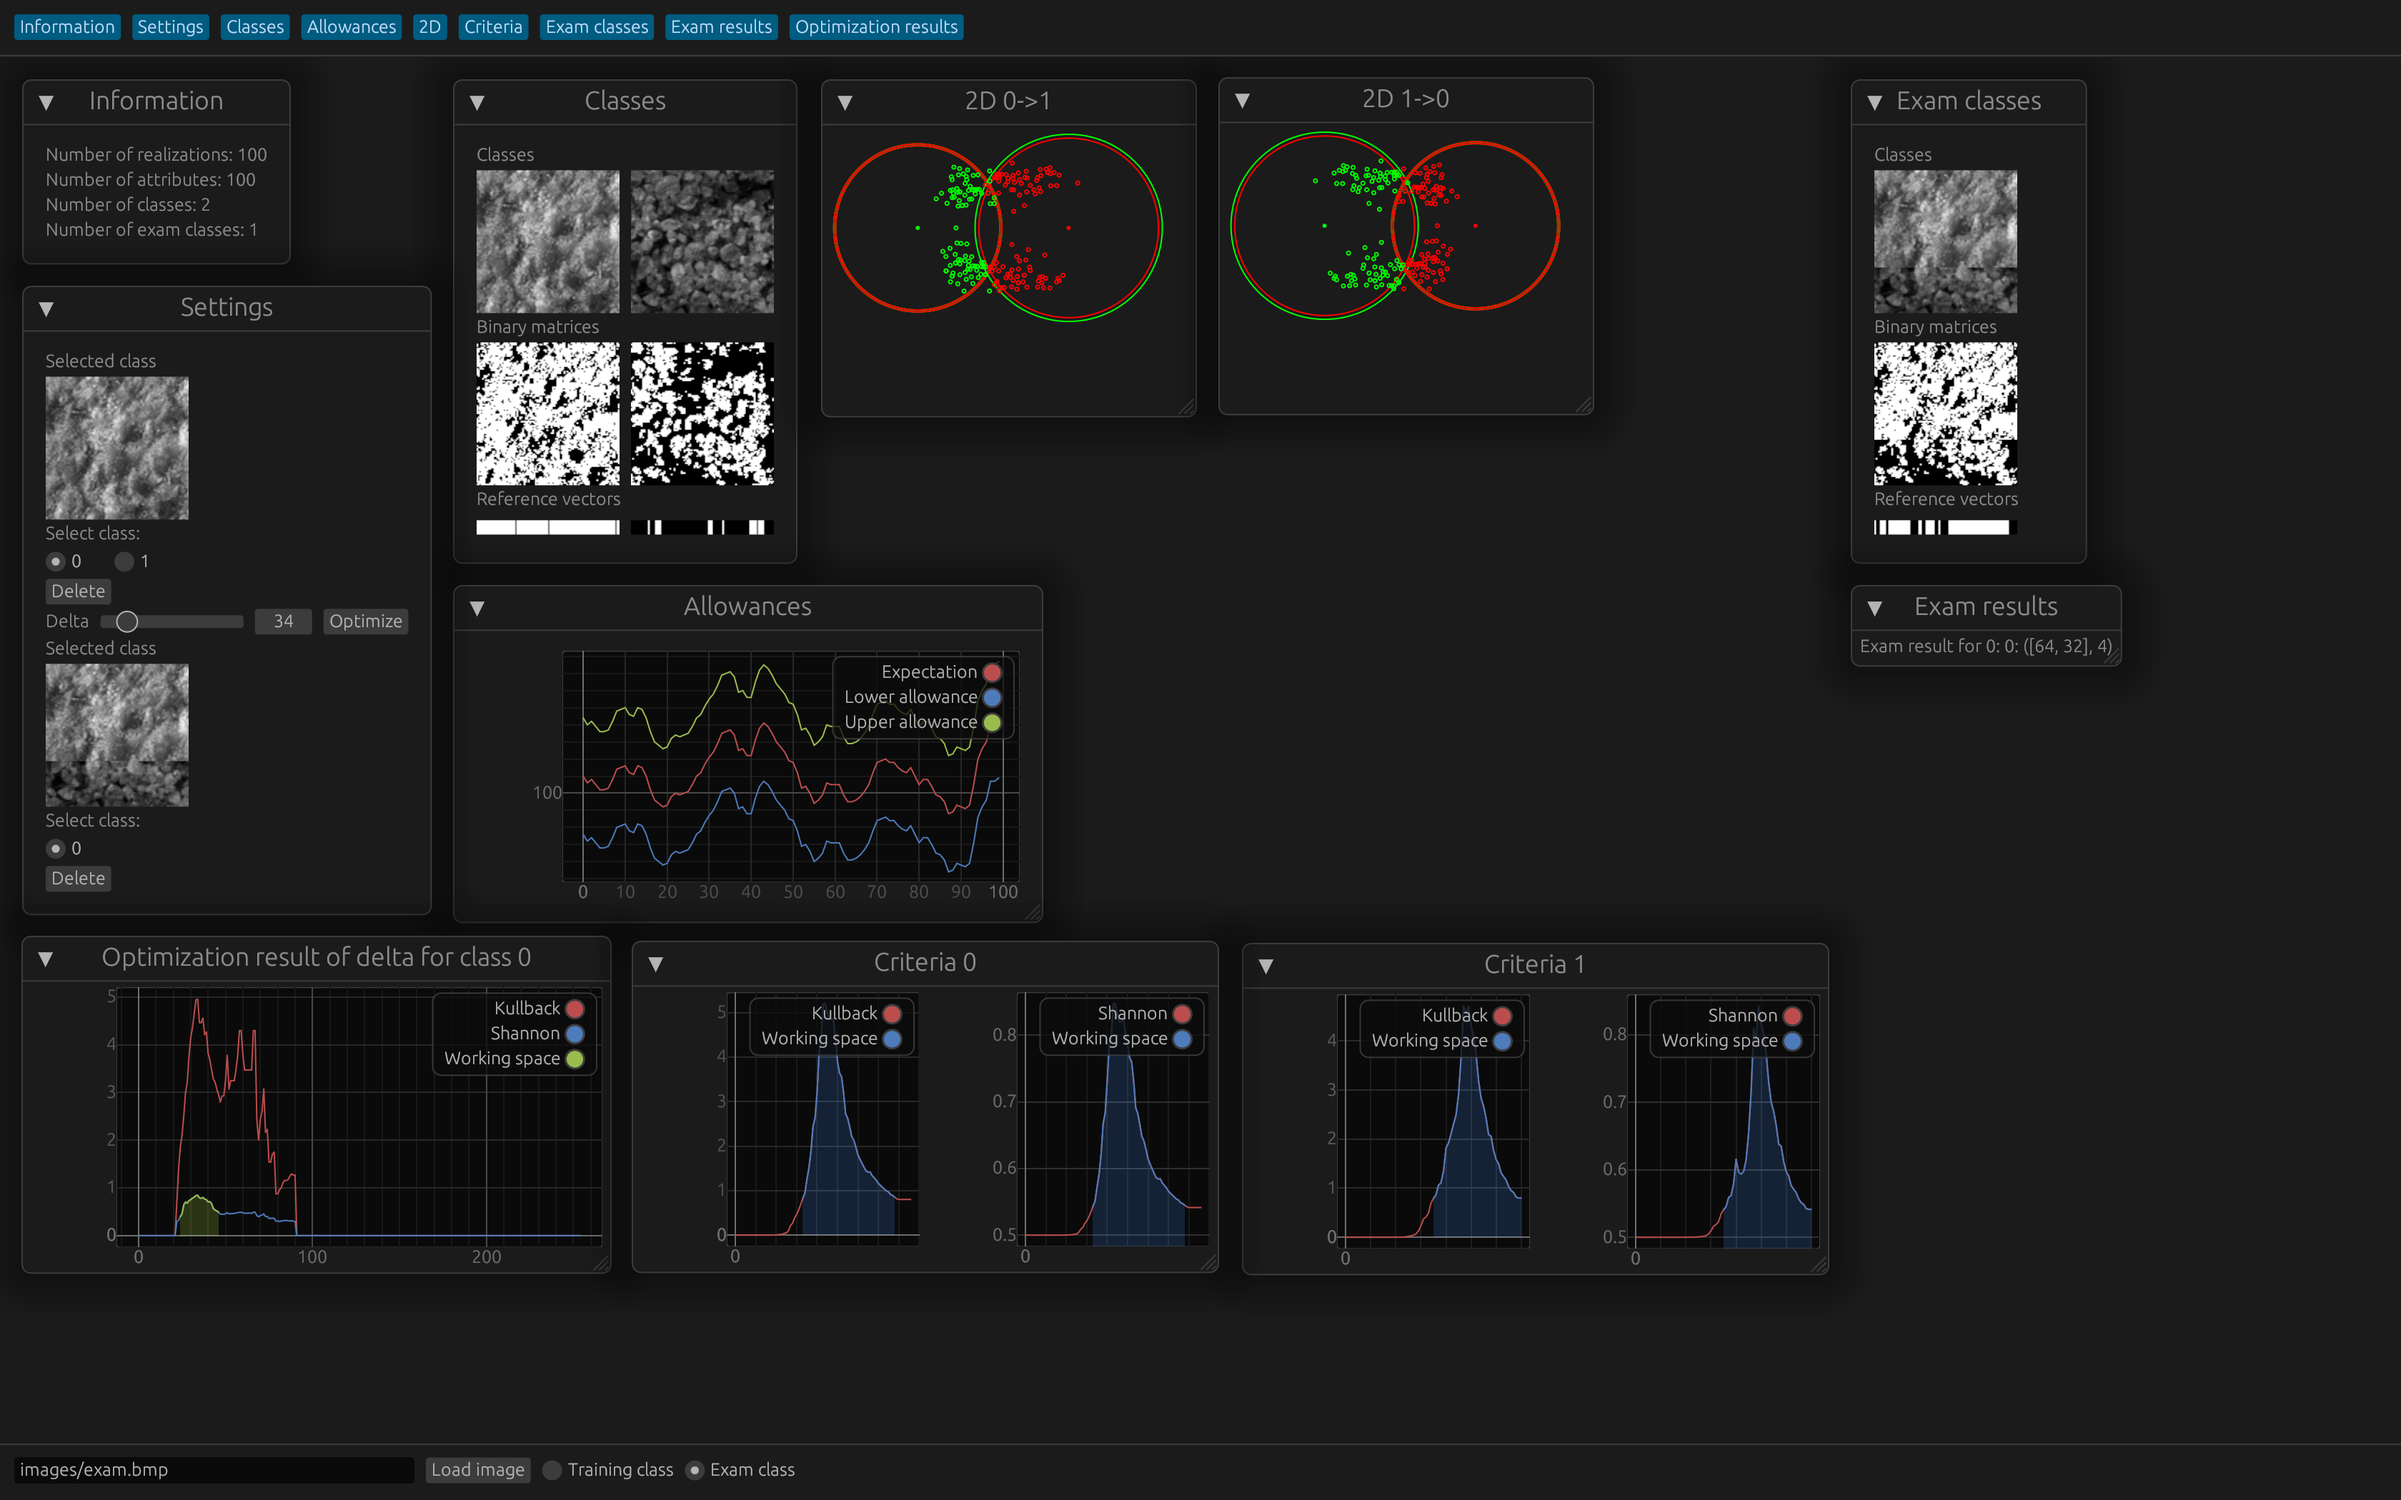
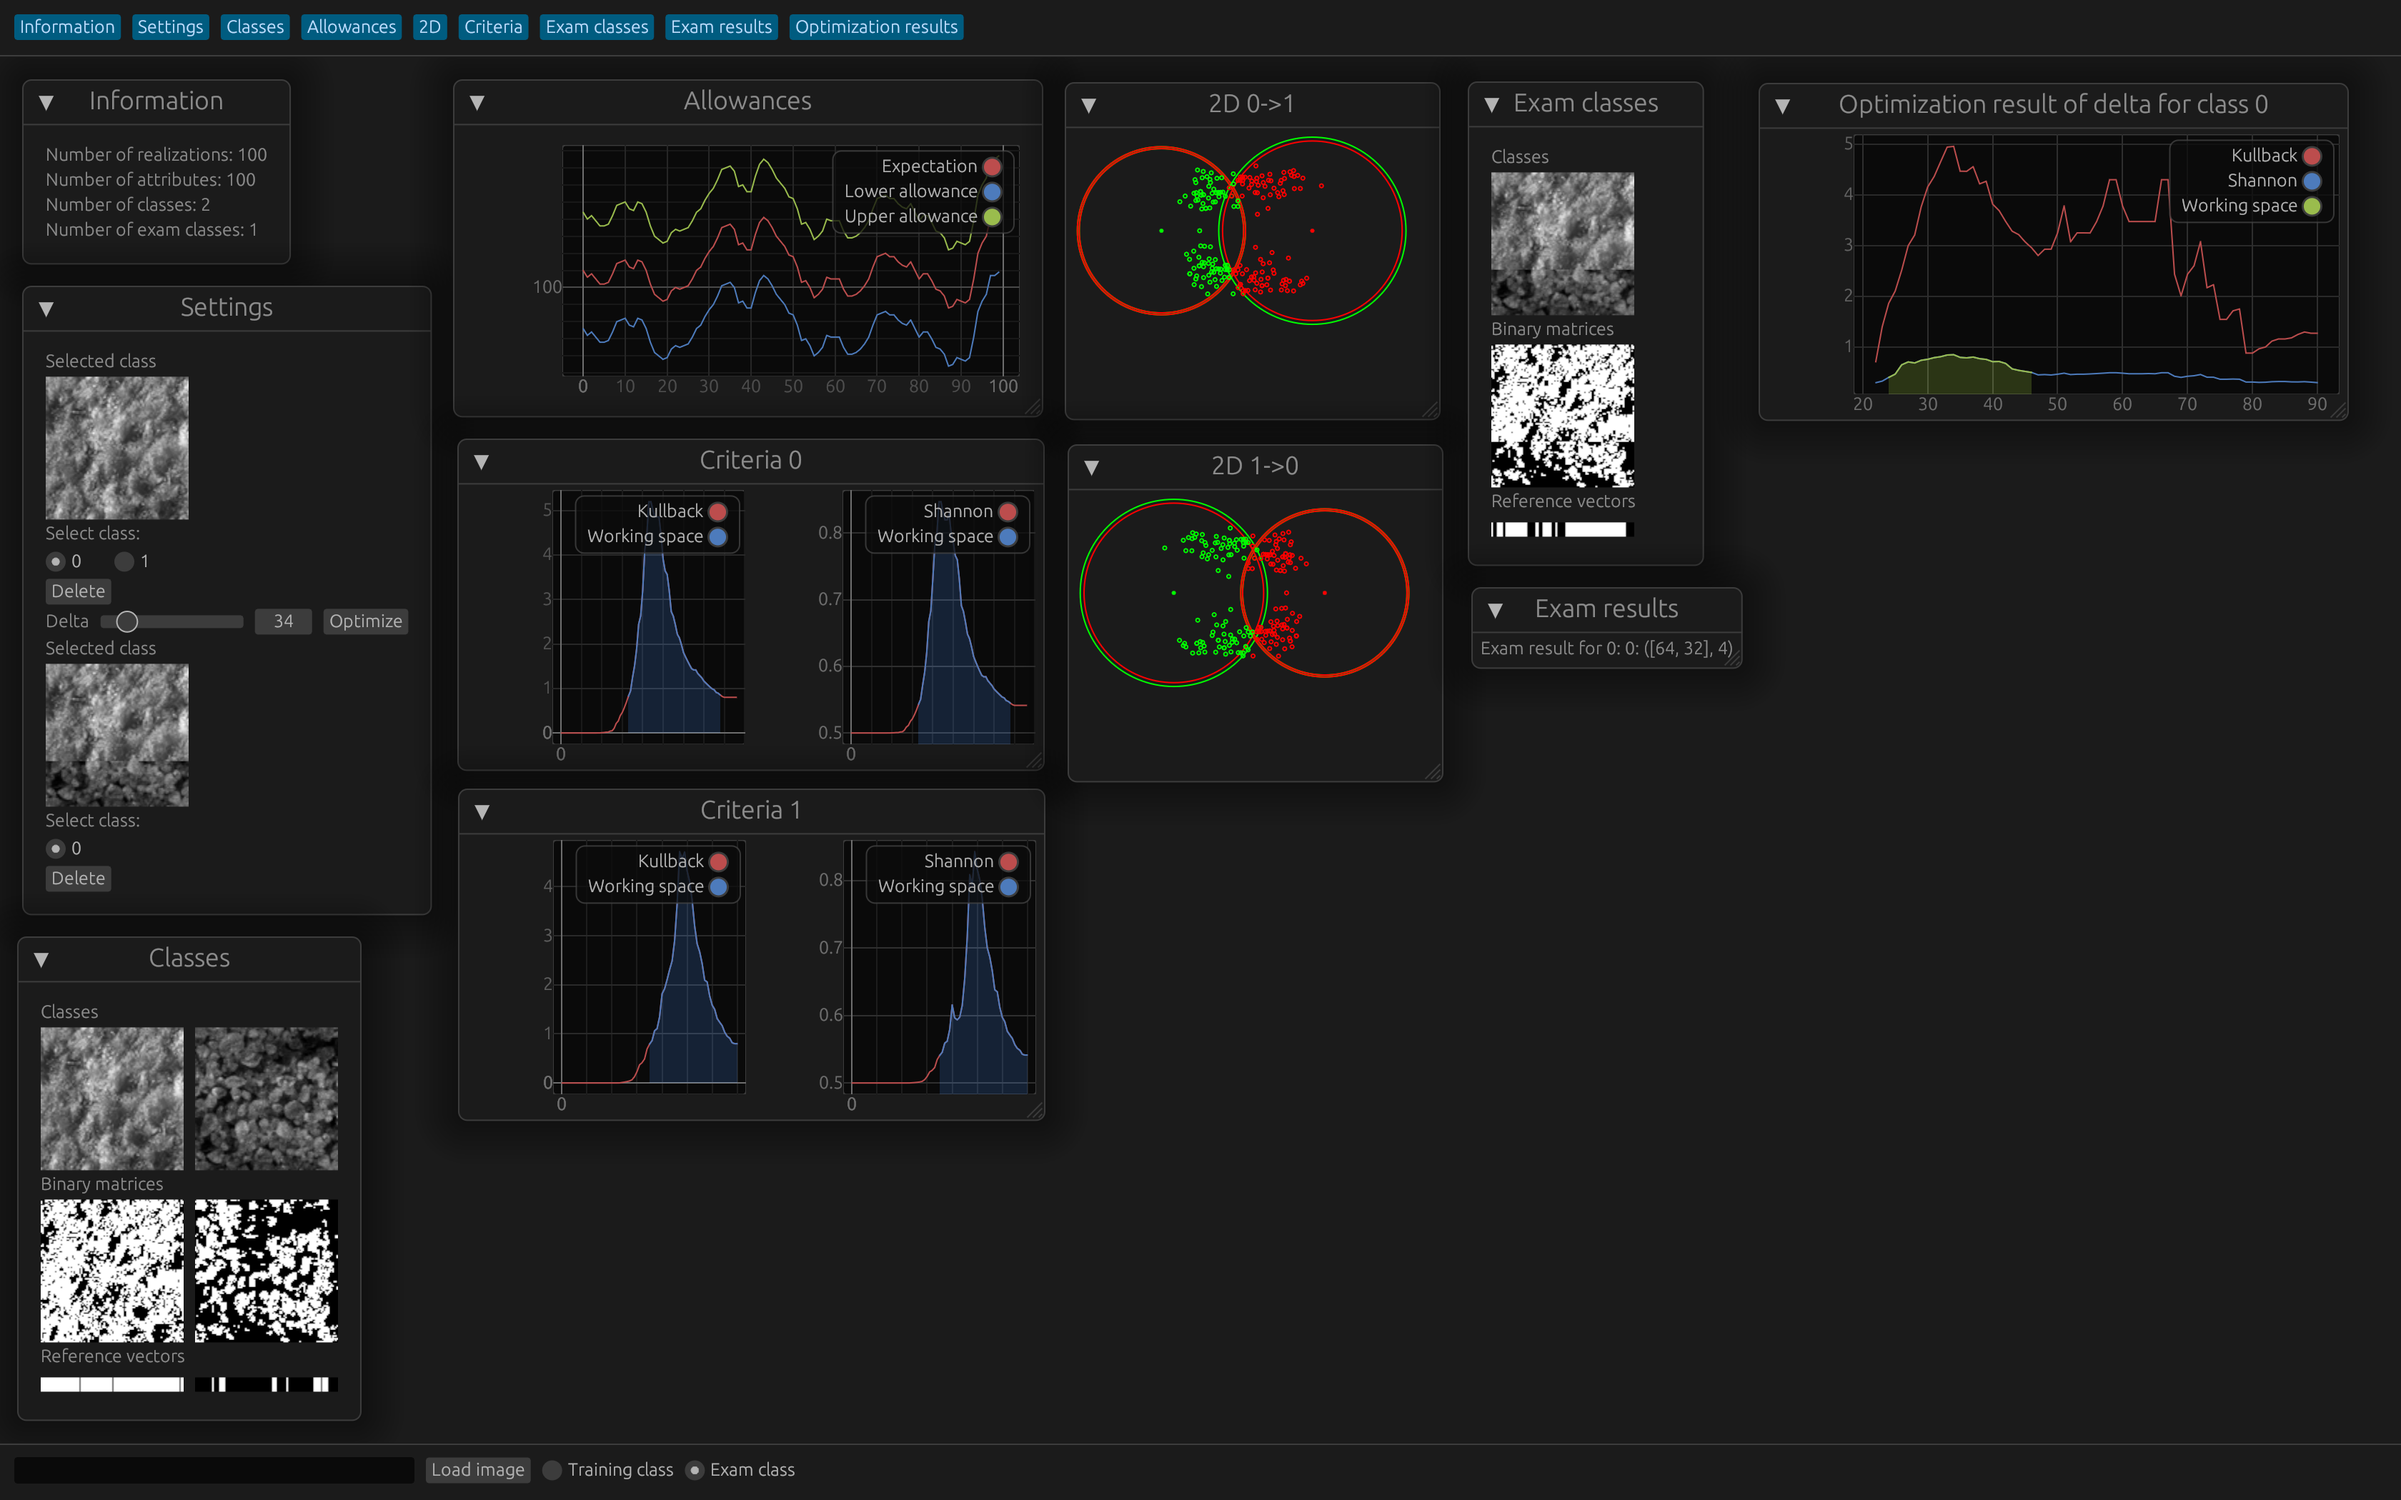
chore: remove points with 0 y from optimization plot

diff --git a/src/optimization_results.rs b/src/optimization_results.rs
@@ -16,9 +16,27 @@ impl Show for OptimizationResults {
             .auto_bounds_y()
             .show(ui, |ui| {
                 ui.line(
-                    Line::new(PlotPoints::from_ys_f64(&self.kullback_criteria)).name("Kullback"),
+                    Line::new(
+                        self.kullback_criteria
+                            .iter()
+                            .enumerate()
+                            .filter(|(_, &y)| y != 0.0)
+                            .map(|(i, &y)| [i as f64, y])
+                            .collect::<Vec<[f64; 2]>>(),
+                    )
+                    .name("Kullback"),
                 );
-                ui.line(Line::new(PlotPoints::from_ys_f64(&self.shannon_criteria)).name("Shannon"));
+                ui.line(
+                    Line::new(
+                        self.shannon_criteria
+                            .iter()
+                            .enumerate()
+                            .filter(|(_, &y)| y != 0.0)
+                            .map(|(i, &y)| [i as f64, y])
+                            .collect::<Vec<[f64; 2]>>(),
+                    )
+                    .name("Shannon"),
+                );
 
                 let points: PlotPoints = self
                     .working_space
